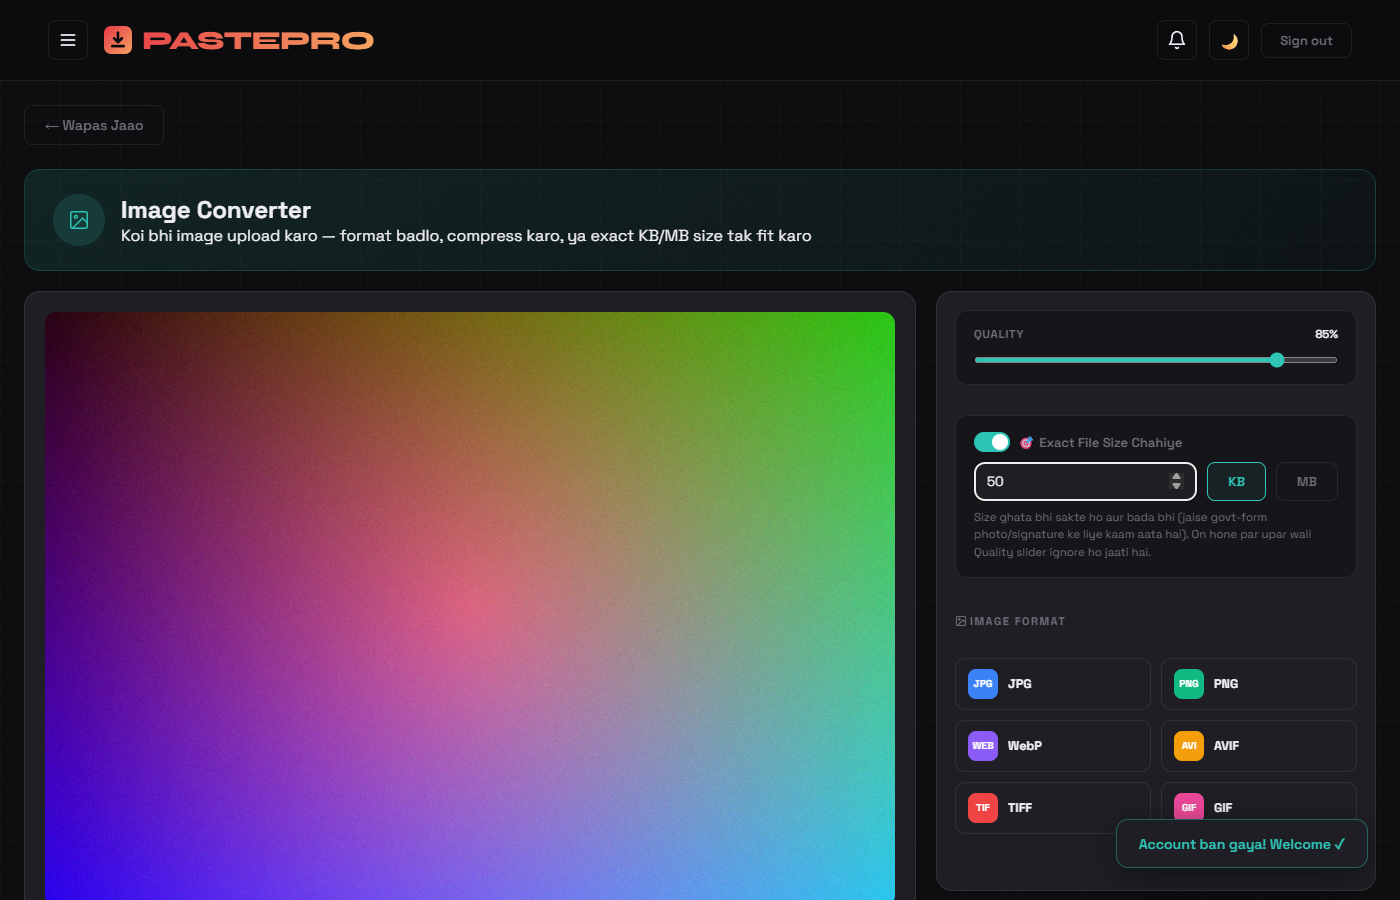
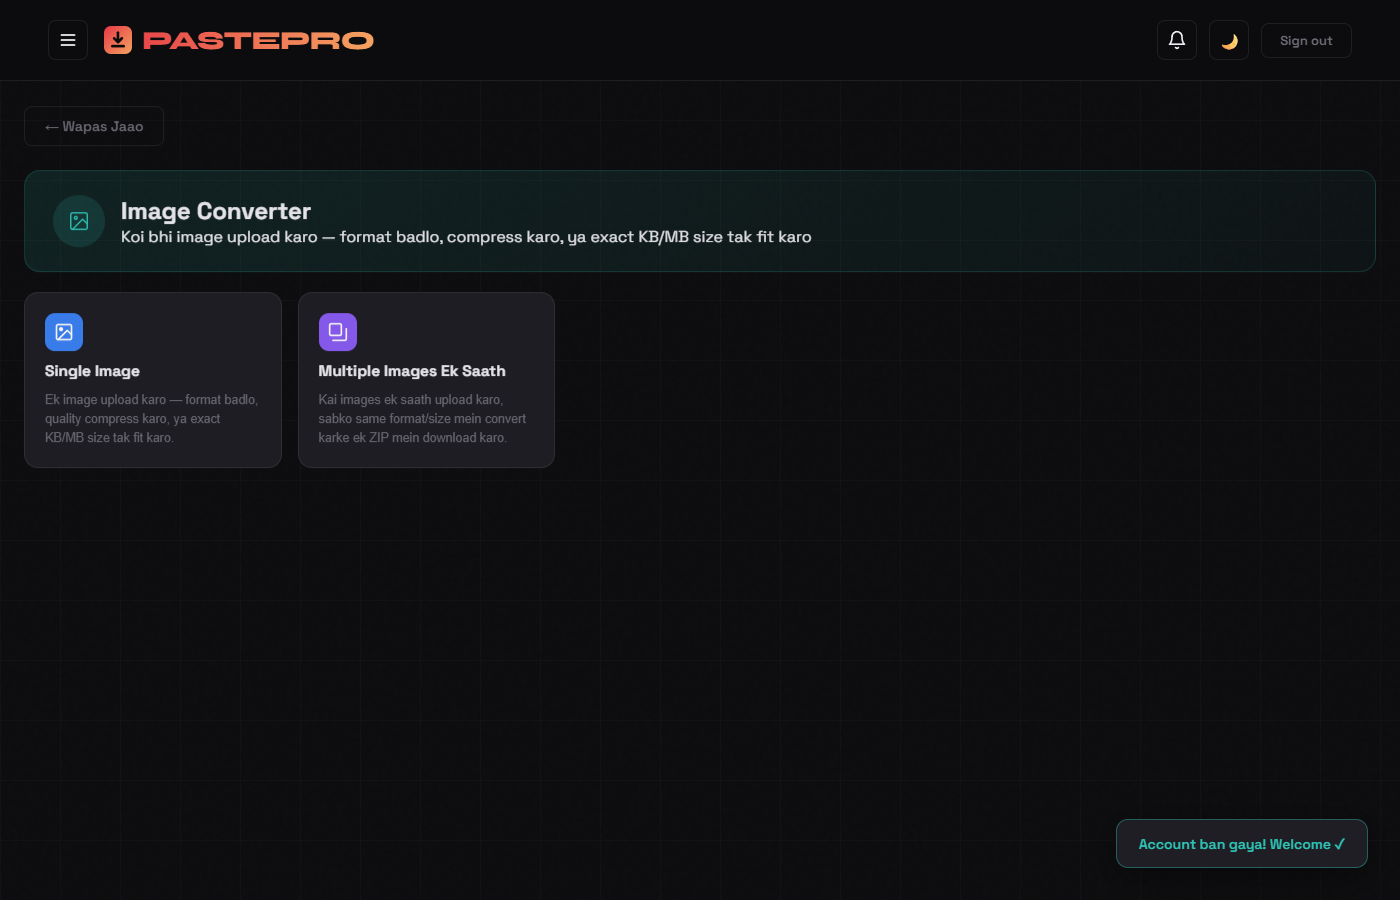
Image Converter: PDF-Tools-style tool-card grid for Single/Multiple Images
The "Multiple Images" section was just a plain banner sitting inline
below the single-image tool, easy to miss/confusing. Restructured the
page to match PDF Tools' own pattern: a landing grid with two clear
tool-cards (Single Image, Multiple Images Ek Saath — same
.pdft-tool-card markup/styling), each opening its own dedicated
workspace with a "← Sab Tools" back button. Revisiting the page (via
sidebar) always resets to the landing grid.

No functional changes to either tool — verified both single-image
convert and batch ZIP convert still work identically inside their new
wrappers, plus card navigation and the back button in both directions.
Docs screenshot updated to show the new landing grid.

diff --git a/index.html b/index.html
@@ -1734,8 +1734,8 @@
             <li>Multiple Images section — upload up to 20 photos at once, same format/quality/target-size applied to every one, downloaded as a single ZIP</li>
           </ul>
           <div class="docs-shot-wrap">
-            <img class="docs-shot" src="/docs-assets/image-converter.png" alt="Image Converter with a photo uploaded and format options" loading="lazy" />
-            <div class="docs-shot-caption">A photo uploaded, quality and target-size controls ready, format chips to convert into</div>
+            <img class="docs-shot" src="/docs-assets/image-converter.png" alt="Image Converter landing grid — Single Image and Multiple Images cards" loading="lazy" />
+            <div class="docs-shot-caption">Single Image and Multiple Images — two clear tool cards, same as PDF Tools</div>
           </div>
         </div>
 
@@ -2531,6 +2531,27 @@
       </div>
     </div>
 
+    <!-- Grid view (landing) — PDF Tools jaisa hi ek tool-card grid, taaki user
+         aasani se samjhe ki Single Image aur Multiple Images do alag tools hain -->
+    <div id="imgc-grid-view">
+      <div class="pdft-tool-grid">
+        <button type="button" class="pdft-tool-card" onclick="imgcOpenSingle()">
+          <span class="pdft-tool-icon" style="background:#3b82f6;"><svg viewBox="0 0 24 24" width="20" height="20" fill="none" stroke="white" stroke-width="2" stroke-linecap="round" stroke-linejoin="round"><rect x="3" y="3" width="18" height="18" rx="2" ry="2"/><circle cx="8.5" cy="8.5" r="1.5"/><polyline points="21 15 16 10 5 21"/></svg></span>
+          <div class="pdft-tool-title">Single Image</div>
+          <div class="pdft-tool-desc">Ek image upload karo — format badlo, quality compress karo, ya exact KB/MB size tak fit karo.</div>
+        </button>
+        <button type="button" class="pdft-tool-card" onclick="imgcOpenBatch()">
+          <span class="pdft-tool-icon" style="background:#8b5cf6;"><svg viewBox="0 0 24 24" width="20" height="20" fill="none" stroke="white" stroke-width="2" stroke-linecap="round" stroke-linejoin="round"><rect x="2" y="2" width="14" height="14" rx="2"/><path d="M6 22h14a2 2 0 0 0 2-2V8"/></svg></span>
+          <div class="pdft-tool-title">Multiple Images Ek Saath</div>
+          <div class="pdft-tool-desc">Kai images ek saath upload karo, sabko same format/size mein convert karke ek ZIP mein download karo.</div>
+        </button>
+      </div>
+    </div>
+
+    <!-- SINGLE IMAGE workspace -->
+    <div id="imgc-single-workspace" style="display:none;">
+    <button type="button" class="back-btn" onclick="imgcShowGrid()">← Sab Tools</button>
+
     <div id="imgc-upload-zone" class="editor-upload-zone" onclick="document.getElementById('imgc-file-input').click()">
       <input type="file" id="imgc-file-input" accept="image/*" style="display:none;" onchange="handleImgcFileSelect(event)" />
       <div class="editor-upload-icon"><svg viewBox="0 0 24 24" width="32" height="32" fill="none" stroke="currentColor" stroke-width="1.6" stroke-linecap="round" stroke-linejoin="round"><path d="M20.39 18.39A5 5 0 0 0 18 9h-1.26A8 8 0 1 0 3 16.3"/><polyline points="16 16 12 12 8 16"/><line x1="12" y1="12" x2="12" y2="21"/></svg></div>
@@ -2596,11 +2617,15 @@
         <button type="button" class="dl-btn dl-btn-gray" onclick="document.getElementById('imgc-result').style.display='none';"><svg viewBox="0 0 24 24" width="13" height="13" fill="none" stroke="currentColor" stroke-width="2.2" stroke-linecap="round" stroke-linejoin="round" style="vertical-align:-2px; margin-right:4px;"><polyline points="15 18 9 12 15 6"/></svg>Wapas Format Choose Karo</button>
       </div>
     </div>
+    </div>
+    <!-- /SINGLE IMAGE workspace -->
 
-    <hr class="docs-divider" style="margin:36px 0;" />
+    <!-- MULTIPLE IMAGES workspace — same format/quality/target-size applied
+         to every file, result comes back as one ZIP (jaisa Split PDF/PDF-to-JPG
+         karte hain) -->
+    <div id="imgc-batch-workspace" style="display:none;">
+    <button type="button" class="back-btn" onclick="imgcShowGrid()">← Sab Tools</button>
 
-    <!-- Multiple Images — same format/quality/target-size applied to every
-         file, result comes back as one ZIP (jaisa Split PDF/PDF-to-JPG karte hain) -->
     <div class="editor-page-banner" style="margin-bottom:20px;">
       <div class="dl-banner-icon"><svg viewBox="0 0 24 24" width="22" height="22" fill="none" stroke="currentColor" stroke-width="1.6" stroke-linecap="round" stroke-linejoin="round"><rect x="2" y="2" width="14" height="14" rx="2"/><path d="M6 22h14a2 2 0 0 0 2-2V8"/></svg></div>
       <div>
@@ -2662,6 +2687,8 @@
       <div id="imgcb-result-text" style="font-size:13.5px; color:var(--text); margin-bottom:16px; font-weight:600;"></div>
       <a id="imgcb-download-link" href="#" class="dl-btn dl-btn-green" style="width:100%;"><svg viewBox="0 0 24 24" width="13" height="13" fill="none" stroke="currentColor" stroke-width="2.2" stroke-linecap="round" stroke-linejoin="round" style="vertical-align:-2px; margin-right:4px;"><path d="M21 15v4a2 2 0 0 1-2 2H5a2 2 0 0 1-2-2v-4"/><polyline points="7 10 12 15 17 10"/><line x1="12" y1="15" x2="12" y2="3"/></svg>ZIP Download Karo</a>
     </div>
+    </div>
+    <!-- /MULTIPLE IMAGES workspace -->
 
   </div>
 
@@ -4752,7 +4779,26 @@
     document.getElementById('pdf-edit-page').classList.remove('show');
     document.getElementById('music-page').classList.remove('show');
     document.getElementById('image-converter-page').classList.add('show');
+    imgcShowGrid();
     window.scrollTo({ top: 0, behavior: 'smooth' });
+  };
+
+  window.imgcShowGrid = () => {
+    document.getElementById('imgc-grid-view').style.display = 'block';
+    document.getElementById('imgc-single-workspace').style.display = 'none';
+    document.getElementById('imgc-batch-workspace').style.display = 'none';
+  };
+
+  window.imgcOpenSingle = () => {
+    document.getElementById('imgc-grid-view').style.display = 'none';
+    document.getElementById('imgc-single-workspace').style.display = 'block';
+    document.getElementById('imgc-batch-workspace').style.display = 'none';
+  };
+
+  window.imgcOpenBatch = () => {
+    document.getElementById('imgc-grid-view').style.display = 'none';
+    document.getElementById('imgc-single-workspace').style.display = 'none';
+    document.getElementById('imgc-batch-workspace').style.display = 'block';
   };
 
   window.showPdfTools = () => {
